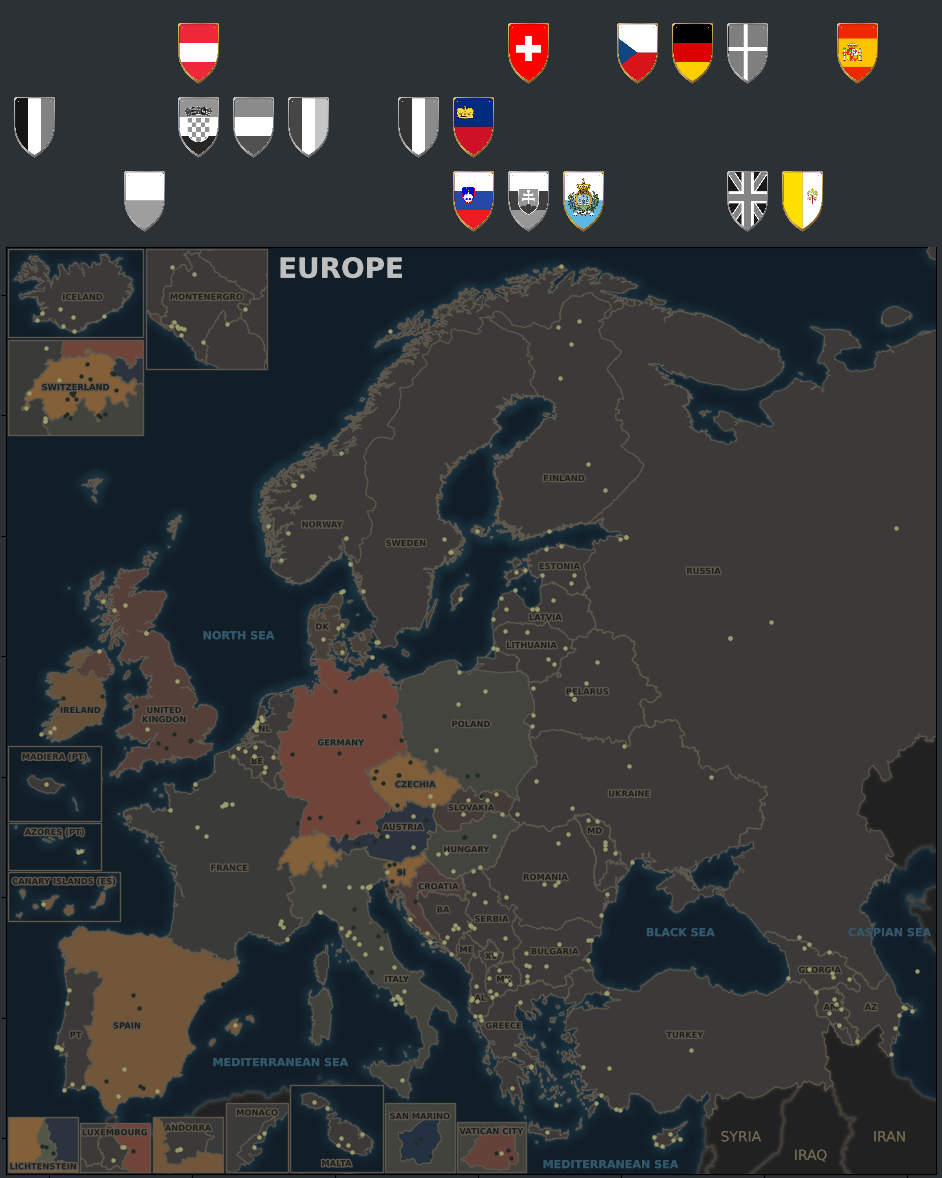
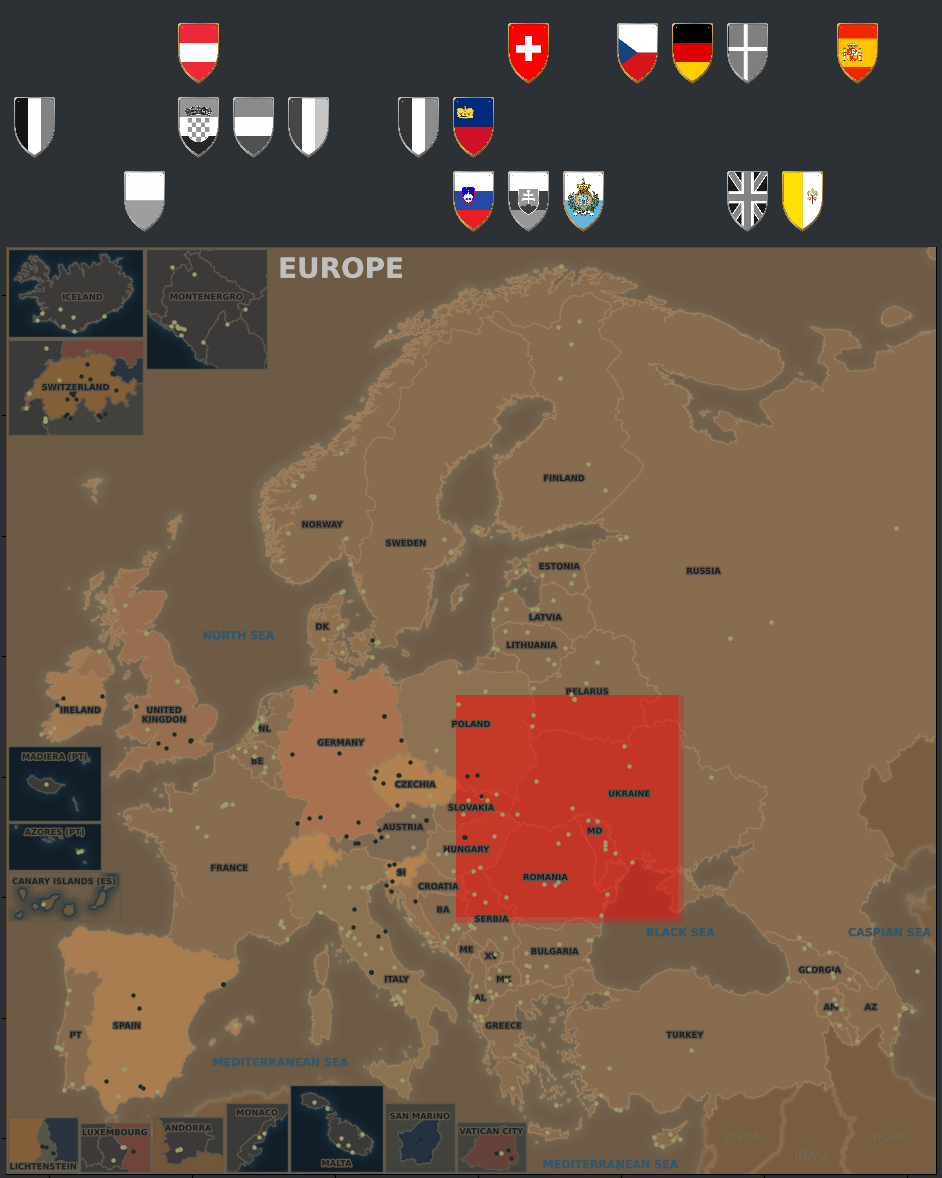
add overlay layer

diff --git a/plotting/plotting_manager.py b/plotting/plotting_manager.py
@@ -66,10 +66,11 @@ class PlotManager:
         points_main = self._exclude_expansion_points(self.points_working)
         self._plot_background(ax, zorder=20)
         self._plot_submaps(ax, self.submaps, zorder=30)
+        self._plot_overlay(ax, zorder=40)
 
         # Inset still gets original/full points
-        self._plot_expansions(ax, current_date, self.points_working, zorder=40)
-        self._plot_text(ax, self.text, zorder=50)
+        self._plot_expansions(ax, current_date, self.points_working, zorder=50)
+        self._plot_text(ax, self.text, zorder=60)
 
         if self.plot_scale >= 3:
             self._plot_labels(
@@ -82,11 +83,11 @@ class PlotManager:
                 self.colors["visited"],
                 self.colors["active"],
                 self.colors["label_bg"],
-                zorder=60
+                zorder=70
             )
         else:
-            self._plot_points(ax, current_date, points=points_main, zorder=60)
-        self._plot_points(ax, current_date, points=points_main, zorder=60, a_type="clear")
+            self._plot_points(ax, current_date, points=points_main, zorder=70)
+        self._plot_points(ax, current_date, points=points_main, zorder=70, a_type="clear")
         self._plot_flags(ax)
         self._finalize_and_save_plot(fig, ax, current_date)
 
@@ -230,6 +231,22 @@ class PlotManager:
                     linewidth=lw, 
                     zorder=1
                 )
+
+    def _plot_overlay(self, ax, zorder, alpha=1.0):
+
+        img = mpimg.imread("eu/overlay.png")
+
+        xmin, xmax = self.plotting["Plotting Area"]["xlims"]
+        ymin, ymax = self.plotting["Plotting Area"]["ylims"]
+
+        ax.imshow(
+            img,
+            extent=[xmin, xmax, ymin, ymax],
+            origin="upper",
+            aspect="auto",
+            alpha=alpha,
+            zorder=zorder
+        )
 
     def _plot_expansions(self, ax, current_date, points_gdf, zorder):
 

diff --git a/main.py b/main.py
@@ -12,7 +12,7 @@ from utils.file_utils import ensure_directory_exists
 # Map Directory
 # US NP | Germany | Europe | Iran |
 #  "us" |    "de" |   "eu" | "ir" |
-PATH = "eu"
+PATH = "de"
 
 small_map = True
 small_gif = False
